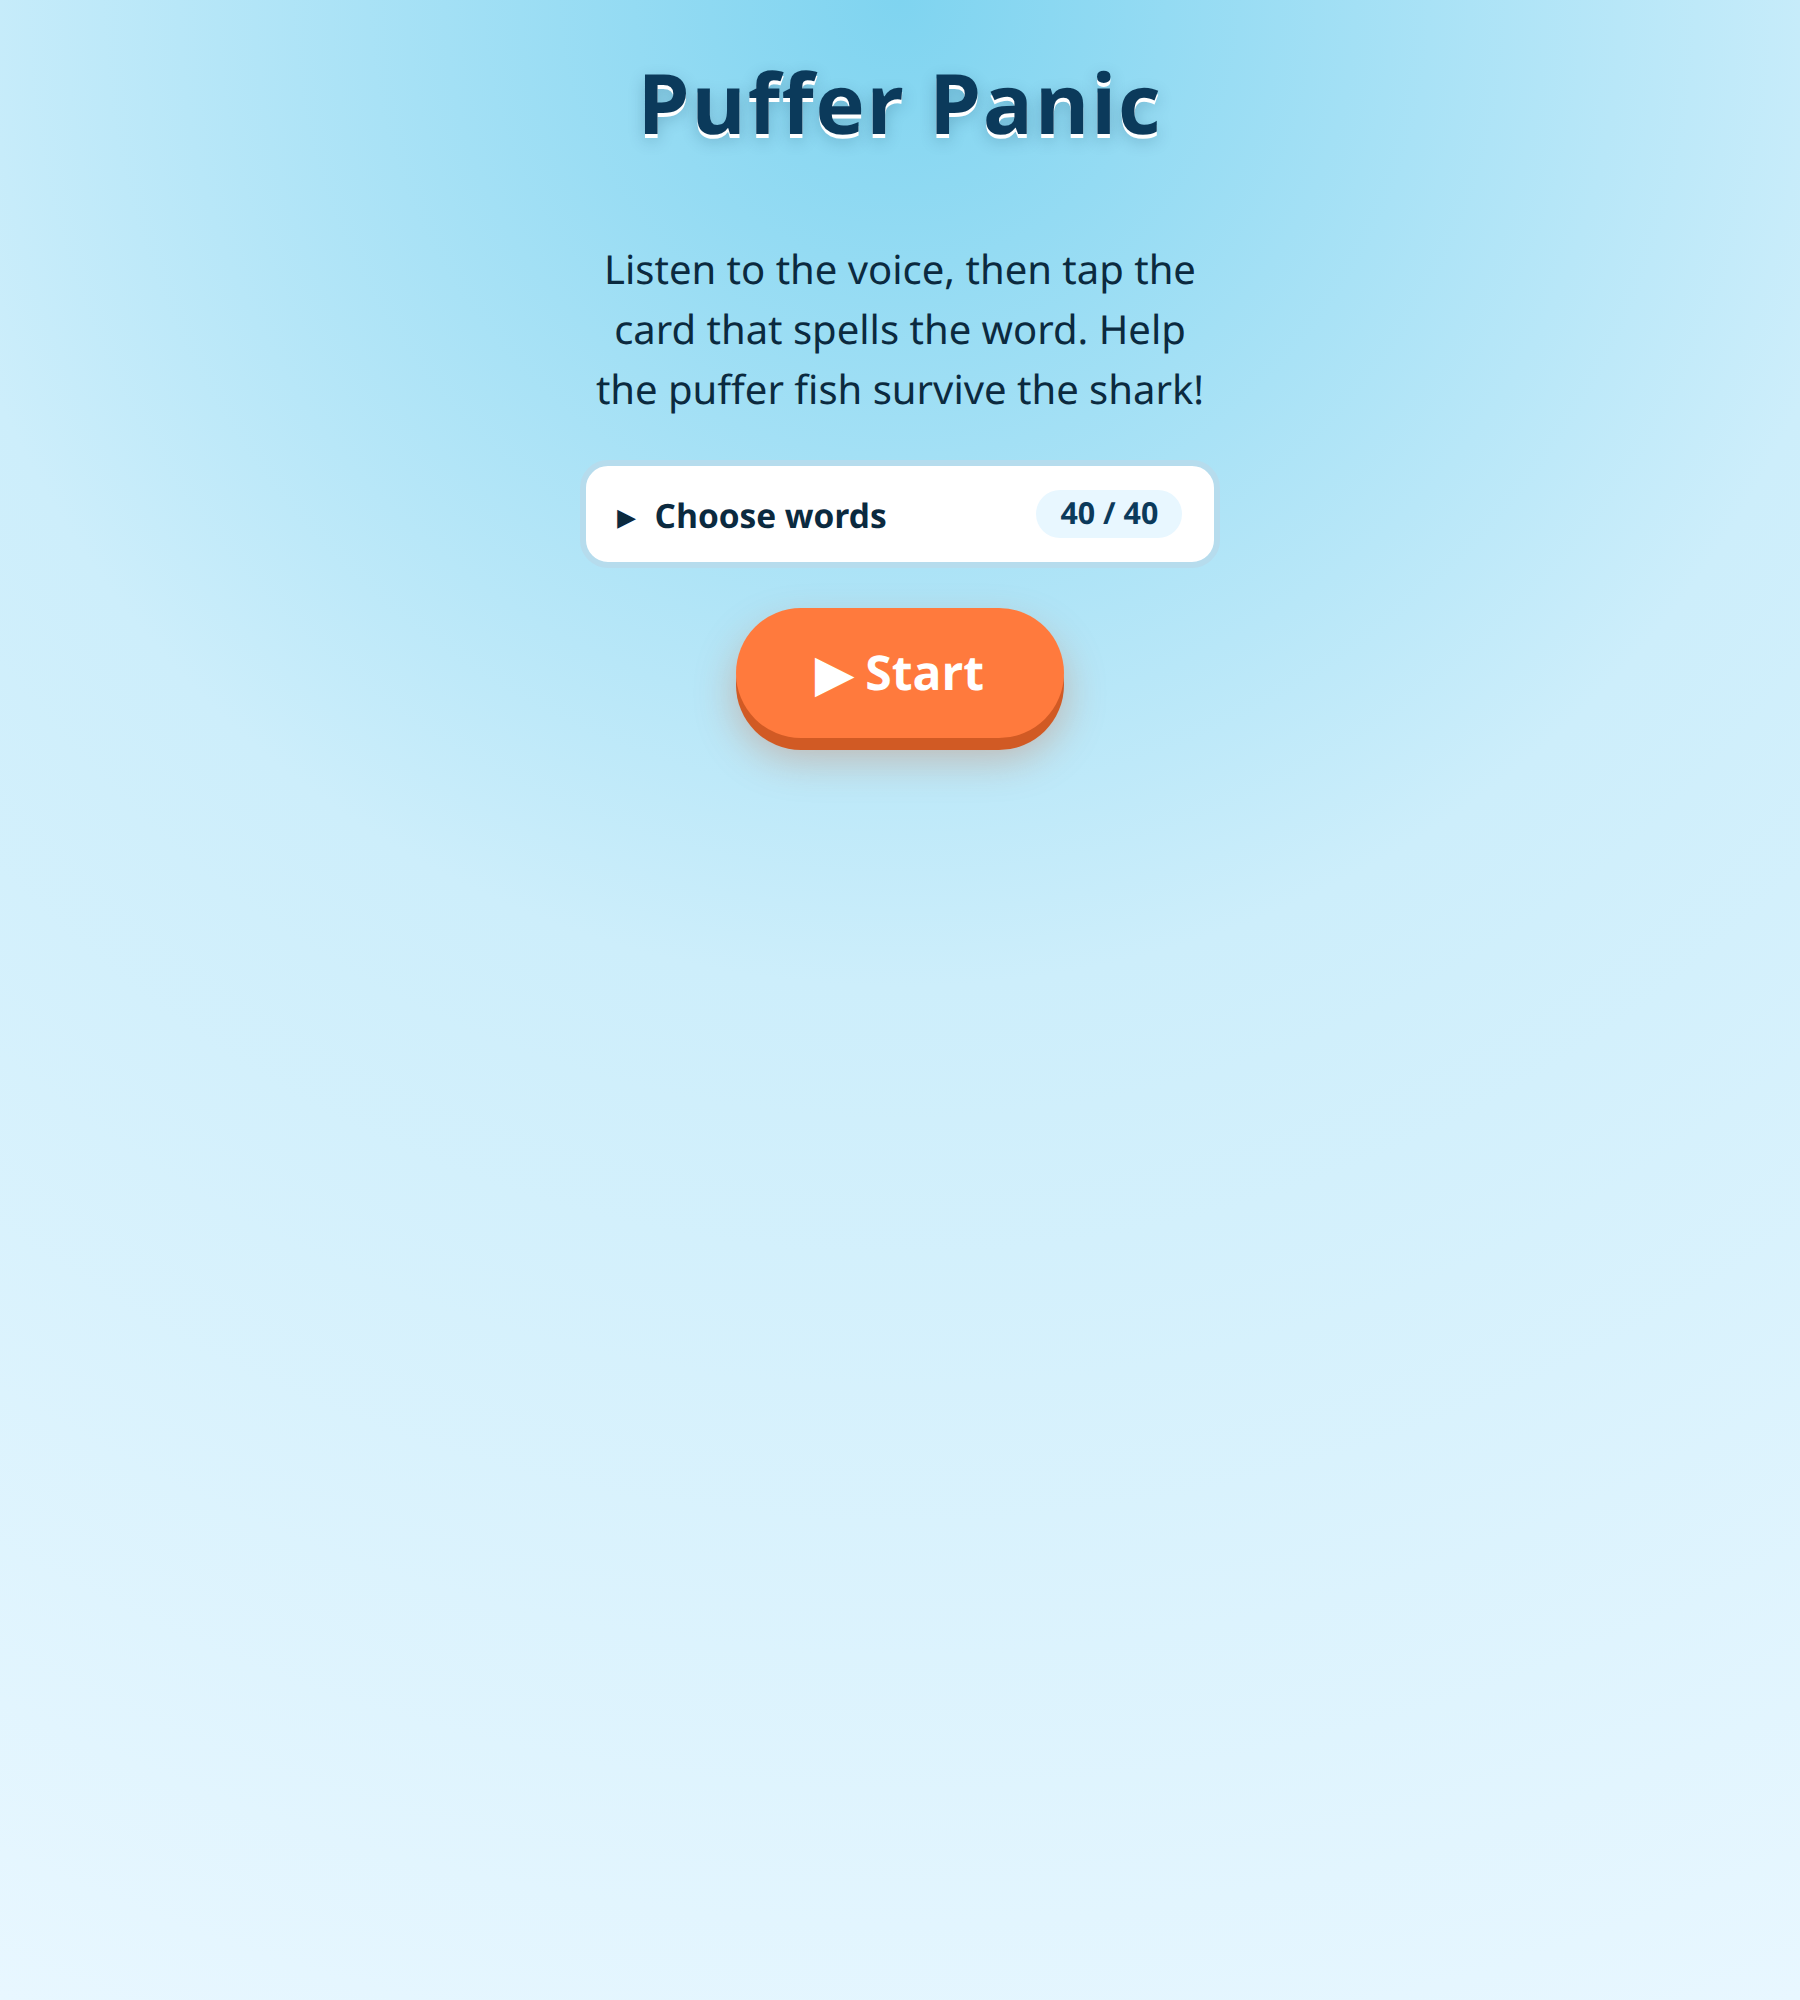
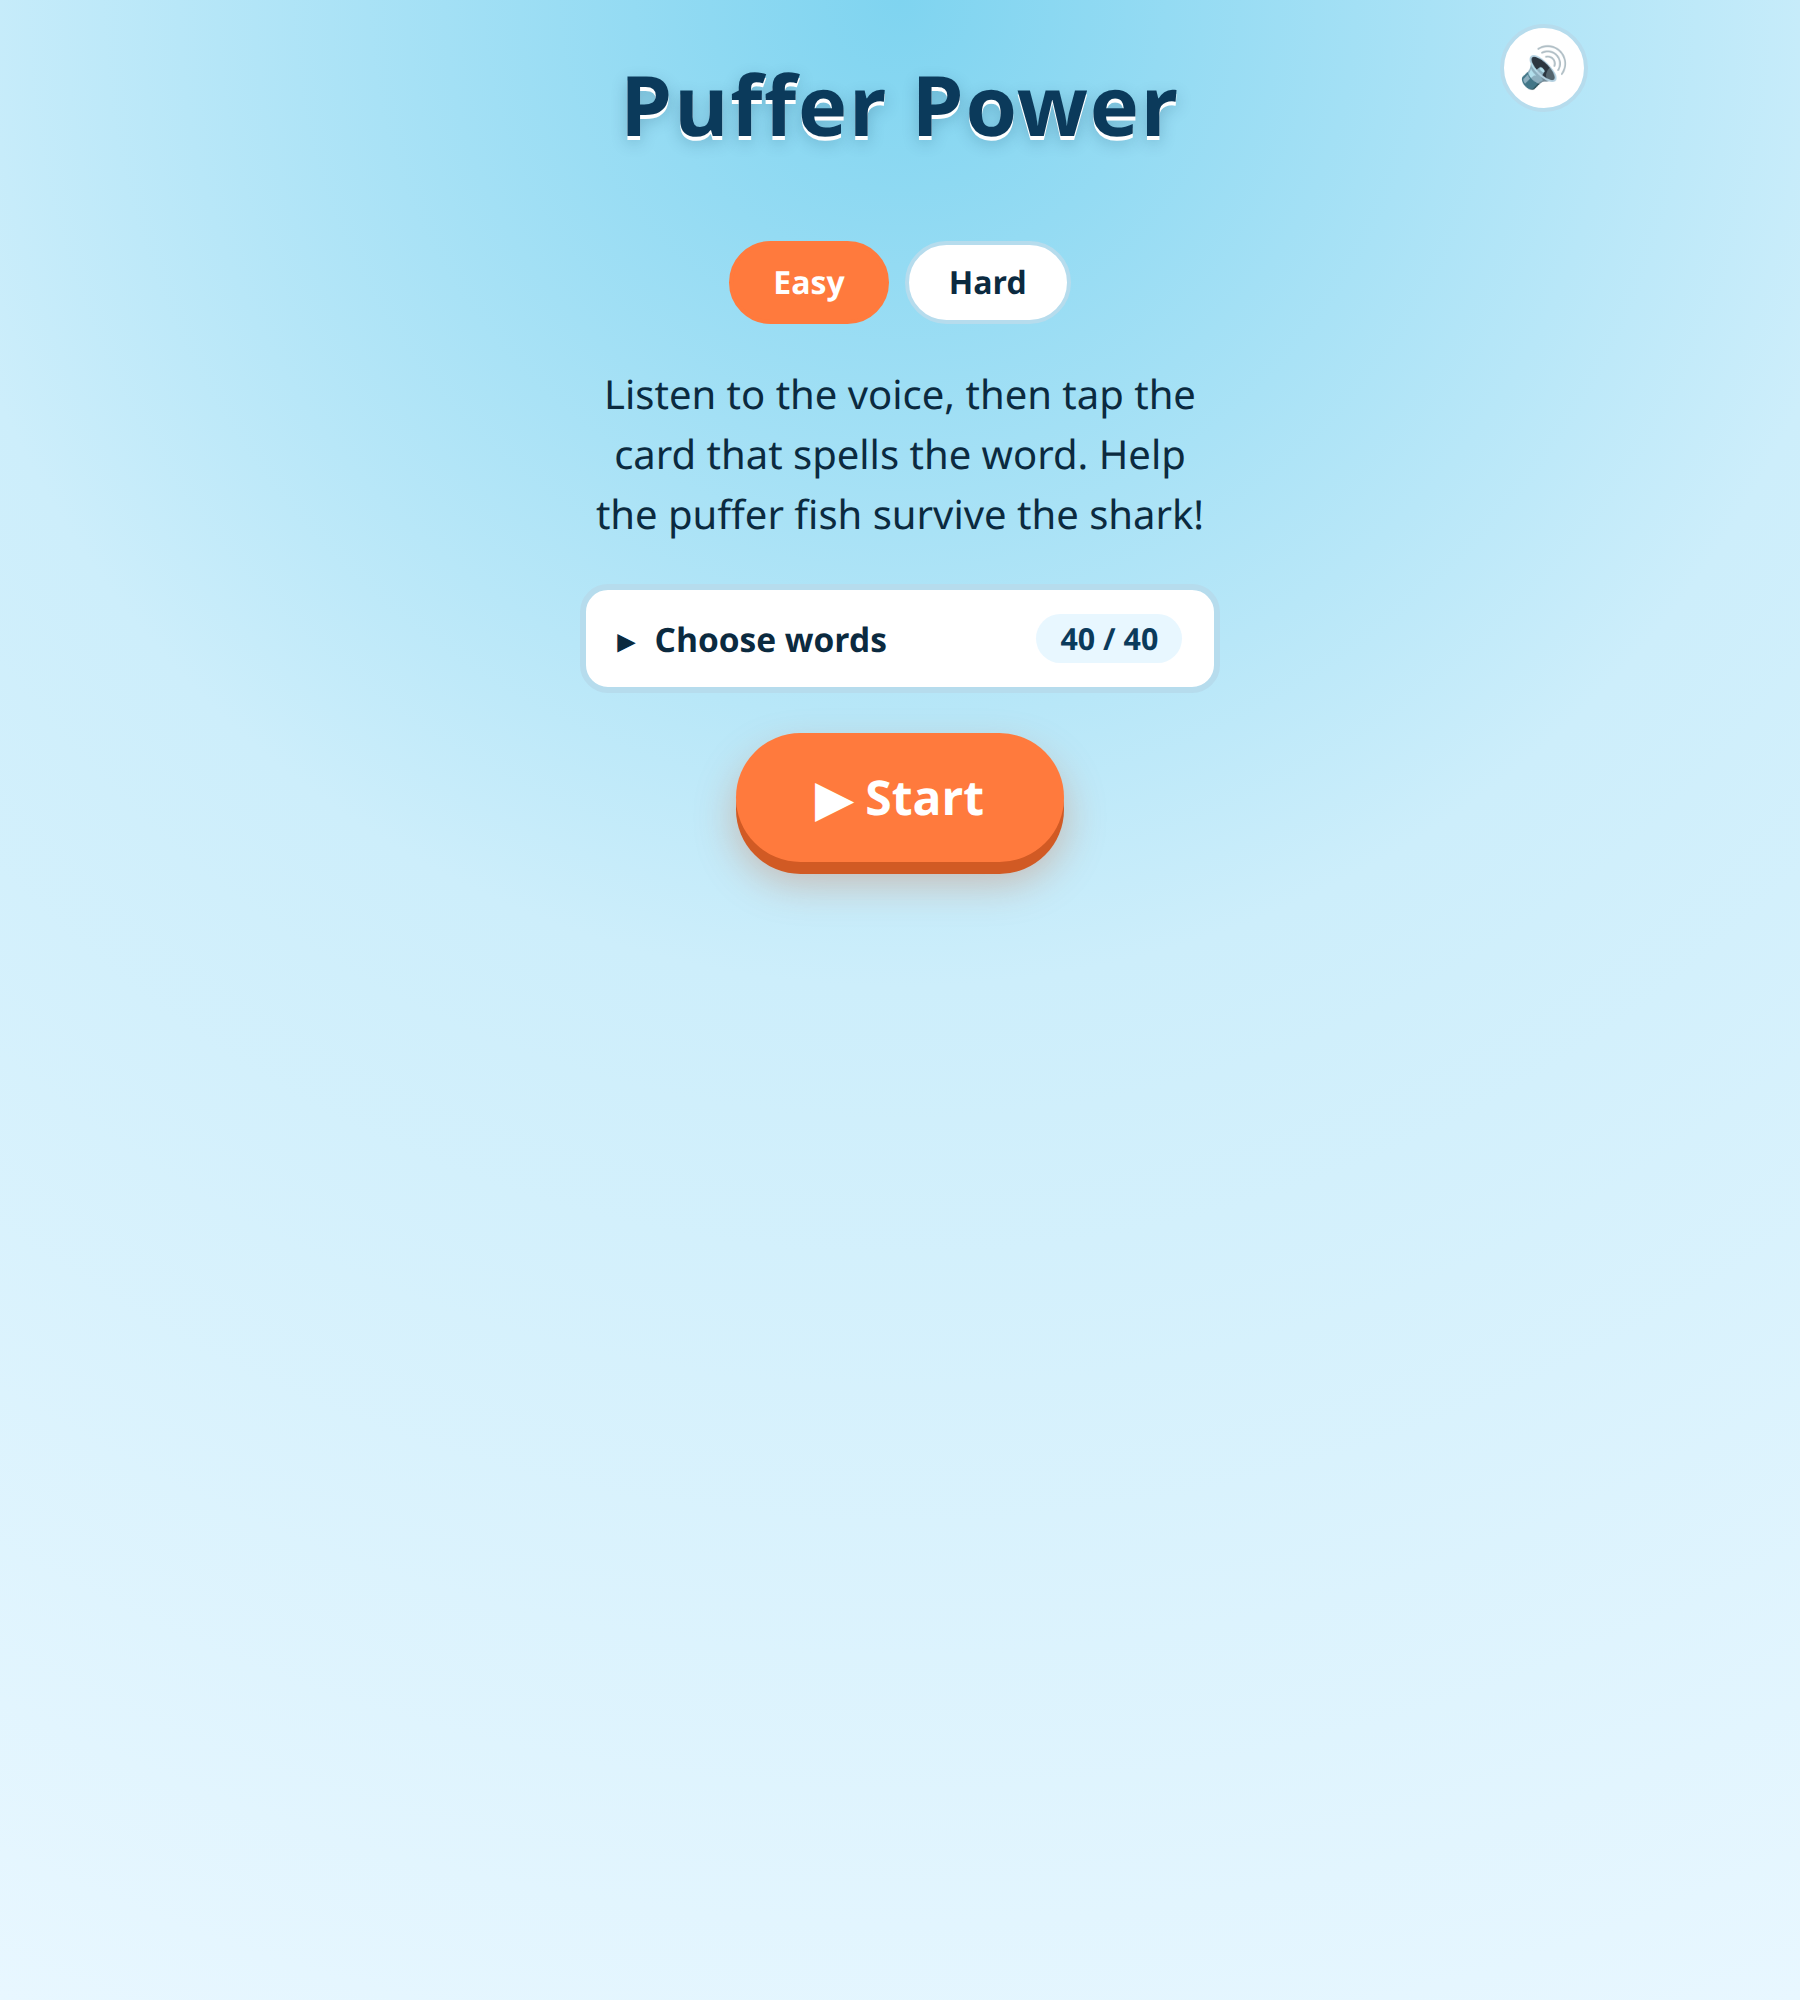
Rebrand site from Puffer Panic to Puffer Power
Rename the game throughout the site copy, metadata and alt text, point
the Play links and canonical URL at the new pufferpower.com domain, and
refresh the start-screen screenshot so it shows the new title.

Changed region(s): [[0.3111, 0.031, 0.6844, 0.465], [0.84, 0.0, 0.9022, 0.062]]

diff --git a/src/styles/global.css b/src/styles/global.css
@@ -1,7 +1,7 @@
 @import "tailwindcss";
 
 @theme {
-  /* Palette sampled directly from the Puffer Panic game (src/index.css) */
+  /* Palette sampled directly from the Puffer Power game (src/index.css) */
   --color-ink: #0b2a3f;
   --color-title: #0b3a5b;
   --color-sea: #e8f7ff;

diff --git a/README.md b/README.md
@@ -1,6 +1,6 @@
-# Puffer Panic Website
+# Puffer Power Website
 
-The marketing site for [Puffer Panic](https://app.pufferpanic.com), an
+The marketing site for [Puffer Power](https://app.pufferpower.com), an
 ad-free sight words game for kids. Built with [Astro](https://astro.build)
 and Tailwind CSS v4 — a single static site, no framework, no backend.
 
